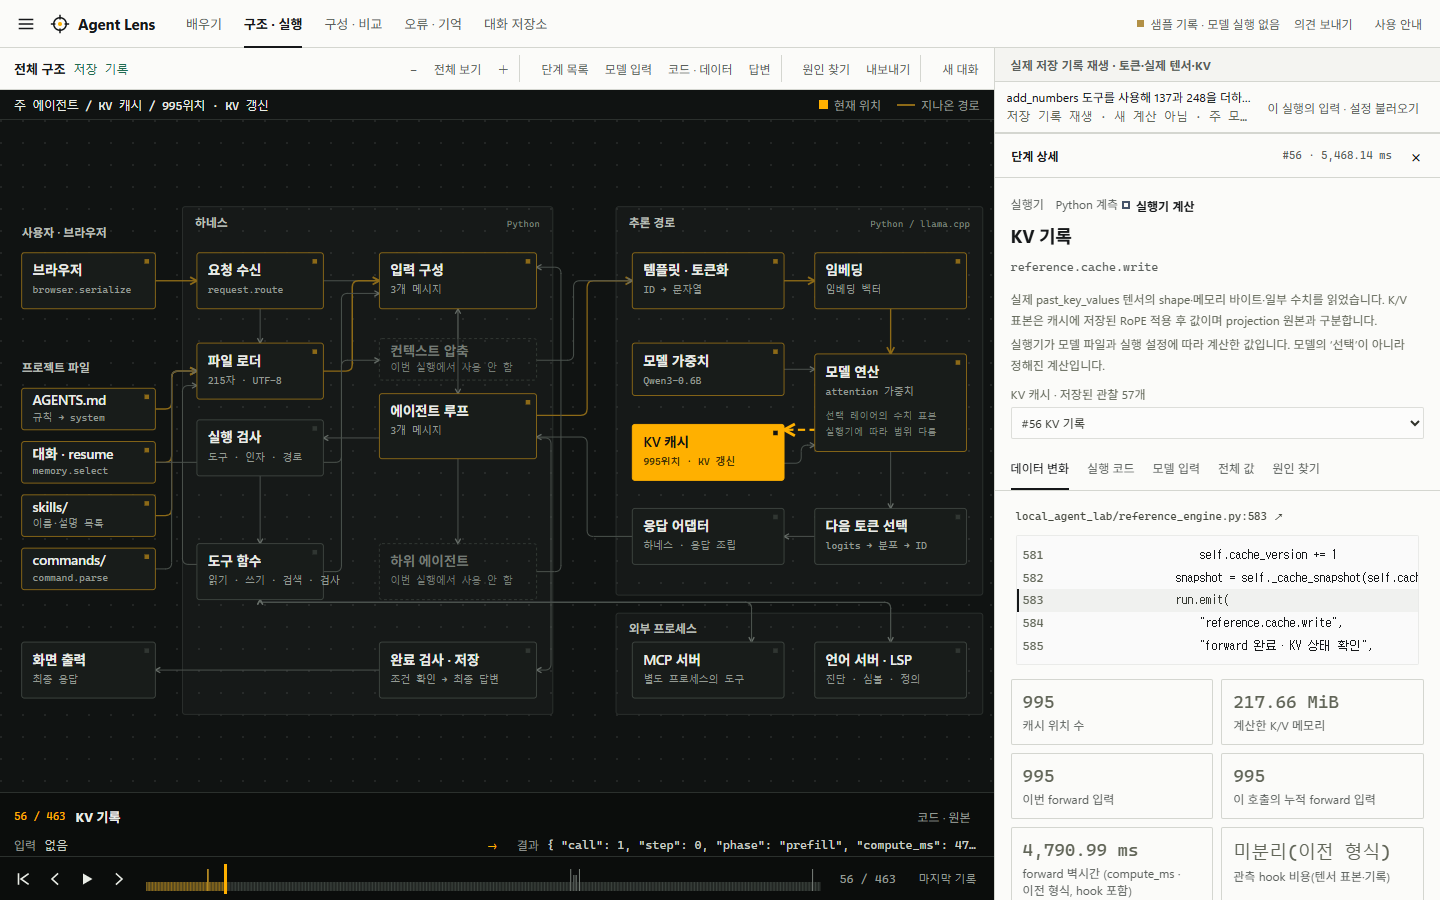
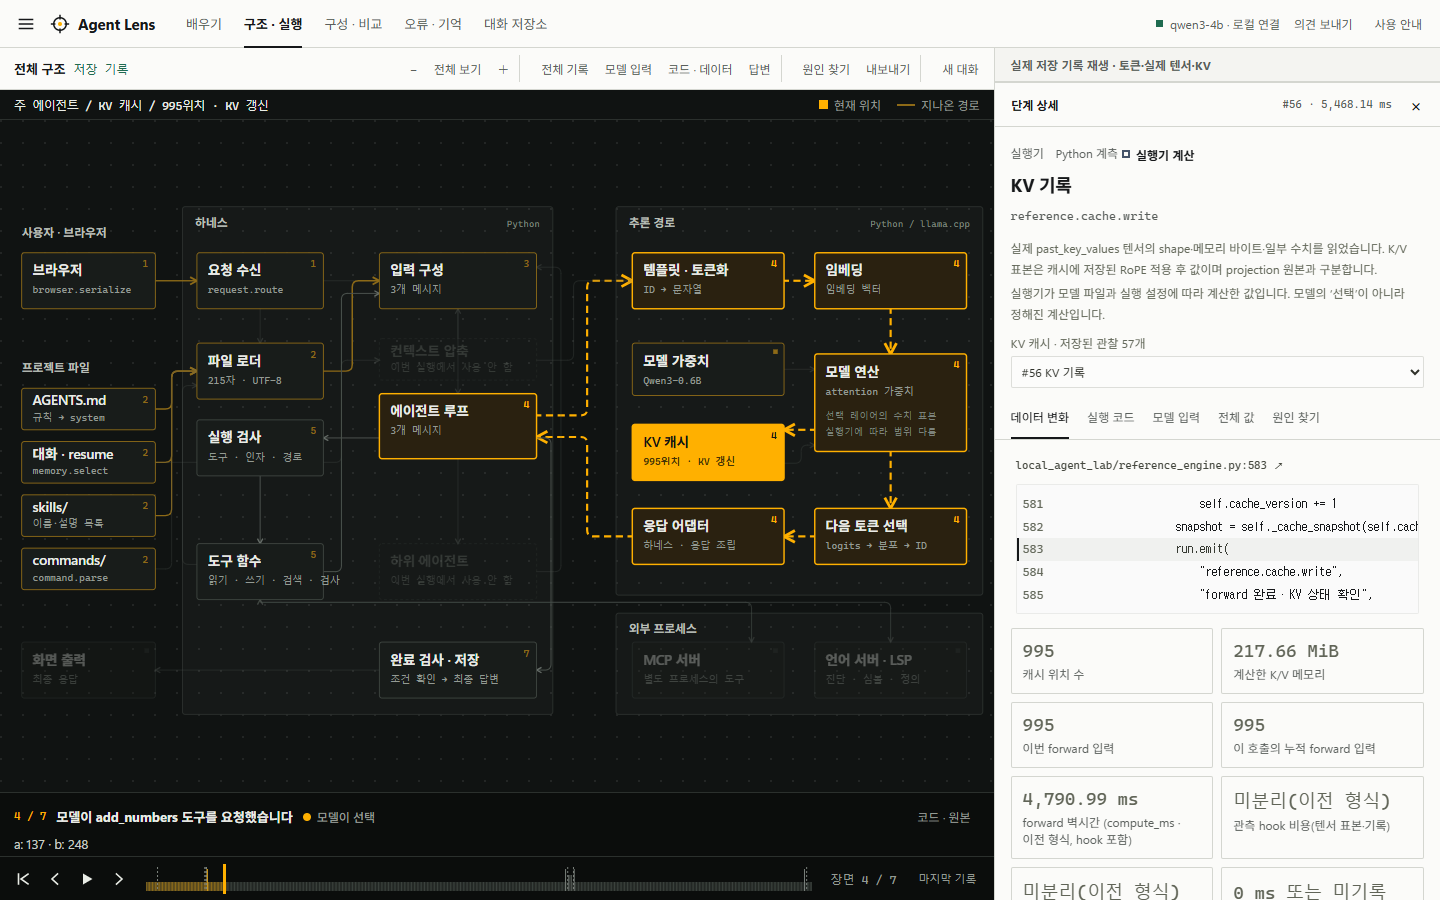
0.8.0: 변경 기록, 문서, 화면 사진, 버전 올림

diff --git a/local_agent_lab/integrations.py b/local_agent_lab/integrations.py
@@ -59,7 +59,7 @@ def mcp_params(client, params=None):
             "io.modelcontextprotocol/clientCapabilities": {},
             "io.modelcontextprotocol/clientInfo": {
                 "name": "Agent Lens",
-                "version": "0.7.0",
+                "version": "0.8.0",
             },
         },
     }
@@ -83,7 +83,7 @@ def prepare_mcp(run, config):
             {
                 "protocolVersion": "2025-11-25",
                 "capabilities": {},
-                "clientInfo": {"name": "Agent Lens", "version": "0.7.0"},
+                "clientInfo": {"name": "Agent Lens", "version": "0.8.0"},
             },
         )
         if info.get("protocolVersion") != "2025-11-25":
@@ -283,7 +283,7 @@ def prepare_lsp(run, config, workspace):
                 "capabilities": {
                     "textDocument": {"publishDiagnostics": {"versionSupport": True}}
                 },
-                "clientInfo": {"name": "Agent Lens", "version": "0.7.0"},
+                "clientInfo": {"name": "Agent Lens", "version": "0.8.0"},
             },
         )
         client.notify(run, "initialized")

diff --git a/local_agent_lab/demo_mcp_server.py b/local_agent_lab/demo_mcp_server.py
@@ -4,7 +4,7 @@ import json
 import sys
 
 VERSION = "2026-07-28"
-INFO = {"name": "agent-lens-math", "version": "0.7.0"}
+INFO = {"name": "agent-lens-math", "version": "0.8.0"}
 TOOL = {
     "name": "add",
     "description": "Add two integers in the separate local MCP process.",

diff --git a/docs/WALKTHROUGH.md b/docs/WALKTHROUGH.md
@@ -4,9 +4,15 @@
 
 처음이라면 **배우기**의 강의를 따라가는 편이 빠릅니다. 이 문서는 화면을 직접 조작하는 방법을 설명합니다. 키보드 `←` `→`로 단계를 옮기고, `?`로 단축키를 볼 수 있습니다.
 
+## 장면으로 보기
+
+**구조 · 실행** 화면은 실행을 몇 개의 장면으로 묶어 오른쪽 칸에 보여 줍니다. 맨 위에는 요청과 답변, 걸린 시간, 모델·도구 호출 수가 있습니다. 장면을 누르거나 재생하면 구조도에서 그 장면이 거친 길이 켜지고, 칸의 숫자는 그 칸을 처음 거친 장면입니다. 흐린 칸은 이번 실행에서 거치지 않은 곳입니다.
+
+장면을 펼치면 모델이 받은 글, 요청한 도구, 실행 결과, 누가 정했는지, 결과를 바꾸려면 어디를 고칠지가 나옵니다. 코드가 남긴 기록 전체는 장면 안의 **이 장면의 기록**이나 위쪽 **전체 기록**에서 봅니다. 아래 절들은 전체 기록을 쓰는 방법입니다.
+
 ## 1. AGENTS.md를 읽는 주체
 
-왼쪽 위 메뉴(☰)에서 **예제 기록**을 펼쳐 **읽기·쓰기·요청한 값 검증**을 선택합니다. **단계 목록**을 열어 `file.read`와 `file.decode`를 선택하거나 구조도의 파일 로더를 누릅니다. **코드 · 원본**에서 호출 스택과 당시 강조 줄을 확인합니다.
+왼쪽 위 메뉴(☰)에서 **예제 기록**을 펼쳐 **읽기·쓰기·요청한 값 검증**을 선택합니다. **전체 기록**을 열어 `file.read`와 `file.decode`를 선택하거나 구조도의 파일 로더를 누릅니다. **코드 · 원본**에서 호출 스택과 당시 강조 줄을 확인합니다.
 
 ![AGENTS.md 파일 읽기와 당시 코드](images/architecture.png)
 
@@ -42,7 +48,7 @@
 
 ## 5. 누가 정했고, 어디서 틀어졌는가
 
-단계 상세의 제목 위에 **모델이 선택**, **코드가 결정**, **설정·파일에서 옴** 같은 표시가 있습니다. 같은 파일 읽기도 자동 로딩이면 코드가, `read_file` 요청이면 모델이 정한 것입니다. 단계 목록의 **전체 결정 주체**에서 모델이 고른 단계만 걸러 볼 수 있습니다.
+단계 상세의 제목 위에 **모델이 선택**, **코드가 결정**, **설정·파일에서 옴** 같은 표시가 있습니다. 같은 파일 읽기도 자동 로딩이면 코드가, `read_file` 요청이면 모델이 정한 것입니다. **전체 기록**의 **전체 결정 주체**에서 모델이 고른 단계만 걸러 볼 수 있습니다.
 
 왼쪽 위 메뉴(☰)에서 **반복 응답을 3회에서 중단** 기록을 열고 **원인 찾기 → 원인 설명**을 봅니다. 실행기·설정, 도구·하네스, 모델 입력은 기록상 문제가 없고 모델이 필수 도구를 부르지 않았다는 사실이 층별로 나옵니다. 이것은 살펴볼 곳을 좁힌 것이지 원인을 증명한 것이 아닙니다. 완료한 기록에서는 코드가 확인한 것과 확인하지 않은 것을 나눠 보여 줍니다.
 

diff --git a/README.md b/README.md
@@ -10,7 +10,7 @@
 
 프롬프트 한 줄이 규칙 파일 읽기, 입력 조립, 모델 호출, 도구 실행, 완료 판정으로 이어지는 과정을 실행 코드와 함께 기록합니다. 단계마다 코드가 정했는지, 모델이 골랐는지, 설정 파일에서 왔는지 구분해 보여 줍니다.
 
-![강의를 따라 실제 기록의 모델 입력을 살펴보는 화면](docs/images/lesson-step.png)
+![실행을 장면으로 묶어 구조도의 경로와 함께 보는 화면](docs/images/scenes.png)
 
 **[웹 데모 바로 열기](https://paconal888-a11y.github.io/LLM-Agent-viewer/)** · [시작하기](#시작하기) · [배울 수 있는 것](#배울-수-있는-것) · [사용법](docs/WALKTHROUGH.md) · [구조](docs/ARCHITECTURE.md) · [하네스 수정](docs/EXTENDING.md)
 
@@ -84,6 +84,7 @@ cd LLM-Agent-viewer
 
 ## 기능
 
+- **장면으로 따라가기** — 수백 줄의 기록을 요청·입력 조립·모델 호출·도구 실행·완료 판정 같은 몇 개의 장면으로 묶어 무슨 일이 있었는지 먼저 보여 주고, 구조도에서 그 경로를 표시
 - **단계별 기록** — 파일 읽기, 메시지 조립, 모델 호출, 도구 실행을 구조도에서 따라가며 입력·출력과 당시 실행 코드 확인
 - **결정 주체 구분** — 코드가 결정 / 모델이 선택 / 설정·파일에서 옴 / 실행기 계산을 단계마다 표시하고 모델이 고른 단계만 걸러 보기
 - **입력 비교** — 파일 원문이 들어간 메시지로 이동하고, 호출 사이에 추가·변경된 메시지와 도구 정의 확인
@@ -152,7 +153,7 @@ cd LLM-Agent-viewer
 ```powershell
 uv sync --python 3.12 --extra reference --extra integrations --locked
 uv run --extra reference --extra integrations --offline python -m unittest discover -s tests -v
-node --test tests/architecture.test.cjs tests/inspection.test.cjs tests/editor.test.cjs tests/settings.test.cjs tests/export_search.test.cjs tests/lessons.test.cjs
+node --test tests/architecture.test.cjs tests/inspection.test.cjs tests/editor.test.cjs tests/settings.test.cjs tests/export_search.test.cjs tests/lessons.test.cjs tests/story.test.cjs
 ```
 
 웹 데모는 `python scripts/build_demo.py site`로 만들고, 태그를 올리면 릴리스 페이지와 함께 자동으로 갱신됩니다. Node.js는 화면 코드 테스트에만 필요합니다. [이슈](https://github.com/paconal888-a11y/LLM-Agent-viewer/issues)에 재현 절차와 실행기 정보를 남기거나, 변경한 기능의 테스트와 함께 PR을 보내 주세요.

diff --git a/docs/REVIEW.md b/docs/REVIEW.md
@@ -24,10 +24,10 @@
 
 ```powershell
 uv run --extra reference --extra integrations --offline python -m unittest discover -s tests -v
-node --test tests/architecture.test.cjs tests/inspection.test.cjs tests/editor.test.cjs tests/settings.test.cjs tests/export_search.test.cjs tests/lessons.test.cjs
+node --test tests/architecture.test.cjs tests/inspection.test.cjs tests/editor.test.cjs tests/settings.test.cjs tests/export_search.test.cjs tests/lessons.test.cjs tests/story.test.cjs
 ```
 
-Python 테스트 261개와 화면(Node) 테스트 41개를 실행합니다. 모의 모델로 도구 루프·권한·완료 조건·기억·편집·HTTP 경계를 검사합니다. Windows에서는 `test_launcher`가 실제 Windows PowerShell과 curl을 실행해 런처의 네이티브 명령 처리를 검사합니다(모델 다운로드 없음). 작은 무작위 Qwen 모델로 실제 KV 사용/전체 재계산의 결과와 접두부 처리를 검사합니다. MCP는 별도 stdio 프로세스를, LSP는 설치된 실제 pylsp의 진단·심볼·정의·문서 변경을 검사합니다. 모드 검증에는 독립 하위 컨텍스트·권한 제한·실제 결과 합류·대기 중 중지 전파·에이전트별 지적 연결을 포함합니다. 이 숫자는 다운로드한 모델이 모든 지시를 잘 따른다는 뜻이 아닙니다.
+Python 테스트 261개와 화면(Node) 테스트 53개를 실행합니다. 모의 모델로 도구 루프·권한·완료 조건·기억·편집·HTTP 경계를 검사합니다. Windows에서는 `test_launcher`가 실제 Windows PowerShell과 curl을 실행해 런처의 네이티브 명령 처리를 검사합니다(모델 다운로드 없음). 작은 무작위 Qwen 모델로 실제 KV 사용/전체 재계산의 결과와 접두부 처리를 검사합니다. MCP는 별도 stdio 프로세스를, LSP는 설치된 실제 pylsp의 진단·심볼·정의·문서 변경을 검사합니다. 모드 검증에는 독립 하위 컨텍스트·권한 제한·실제 결과 합류·대기 중 중지 전파·에이전트별 지적 연결을 포함합니다. 이 숫자는 다운로드한 모델이 모든 지시를 잘 따른다는 뜻이 아닙니다.
 
 ## 실제 모델과 화면 검증
 

diff --git a/CHANGELOG.md b/CHANGELOG.md
@@ -1,5 +1,22 @@
 # 변경 기록
 
+## 0.8.0
+
+직접 돌린 실행을 따라가기 어렵다는 문제를 고쳤습니다. 실행 기록을 장면으로 묶어 먼저 보여 줍니다.
+
+### 변경
+
+- 구조 · 실행 화면의 기본 단위를 기록 한 줄에서 장면으로 바꿨습니다. 장면은 요청, 설정·규칙 읽기, 입력 조립, 모델 호출, 도구 실행, 완료 판정처럼 에이전트가 실제로 한 일의 단위입니다. 278줄 기록이 13개 장면, 704줄 기록이 7개 장면이 됩니다.
+- 장면 문장은 기록된 값으로 코드가 만듭니다. 모델이 쓴 요약이 아니고, 원인을 단정하지 않습니다.
+- 오른쪽 칸 맨 위에 요청, 답변, 결과, 시간, 모델·도구 호출 수, 토큰을 표시합니다.
+- 재생과 이전·다음은 장면 단위로 움직입니다. 코드가 남긴 기록은 장면을 펼치거나 **전체 기록**에서 봅니다.
+- 구조도는 현재 장면의 경로를 켜고, 칸마다 처음 거친 장면의 번호를 표시하며, 이번 실행에서 거치지 않은 칸은 흐리게 보여 줍니다.
+- 장면을 펼치면 모델이 받은 글, 모델이 요청한 도구, 실행 결과, 누가 정했는지, 결과를 바꾸려면 어디를 고칠지를 보여 줍니다.
+
+### 수정
+
+- 실행 뒤에도 오른쪽 칸에 입력란이 남아 장면을 가리던 문제를 고쳤습니다. **이어서 요청하기**로 다시 열 수 있습니다.
+
 ## 0.7.0
 
 구조도를 화면의 중심으로 다시 배치하고 디자인을 새로 정리했습니다. 사용자가 의견을 남길 경로도 넣었습니다.

diff --git a/README.en.md b/README.en.md
@@ -8,7 +8,7 @@ Agent Lens is a small local agent harness that records everything: which files i
 
 > The interface and the lessons are currently in **Korean only**. Code, event names and the raw records are readable in any language.
 
-![A lesson step showing the real model input](docs/images/lesson-step.png)
+![A run grouped into scenes, with the path lit on the diagram](docs/images/scenes.png)
 
 ## Try it
 
